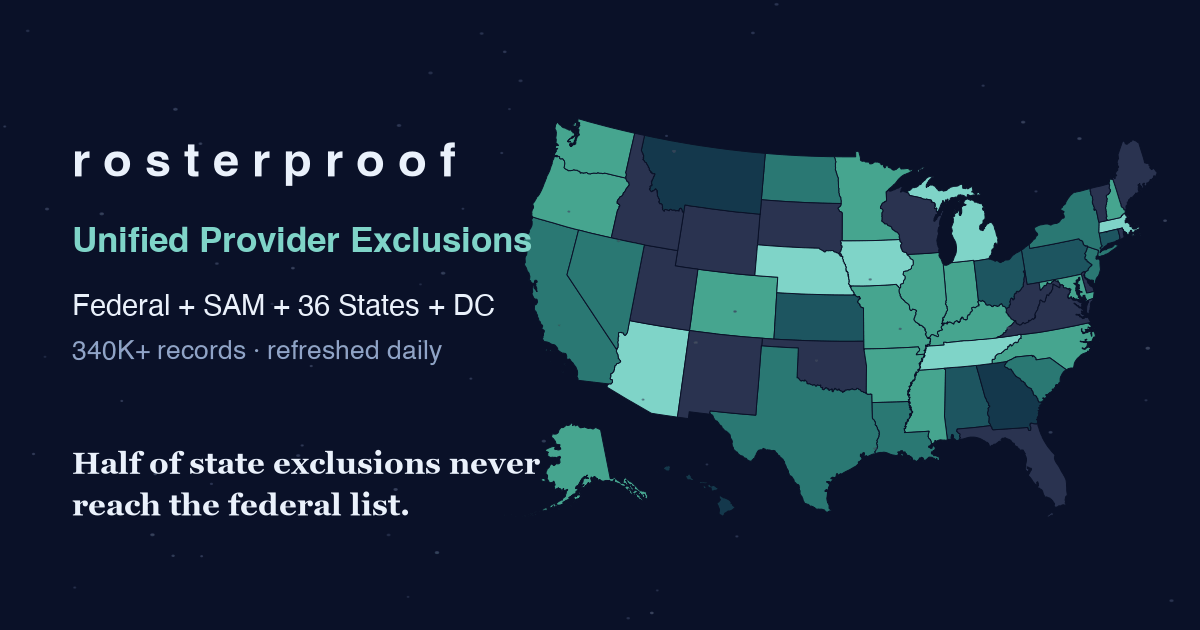
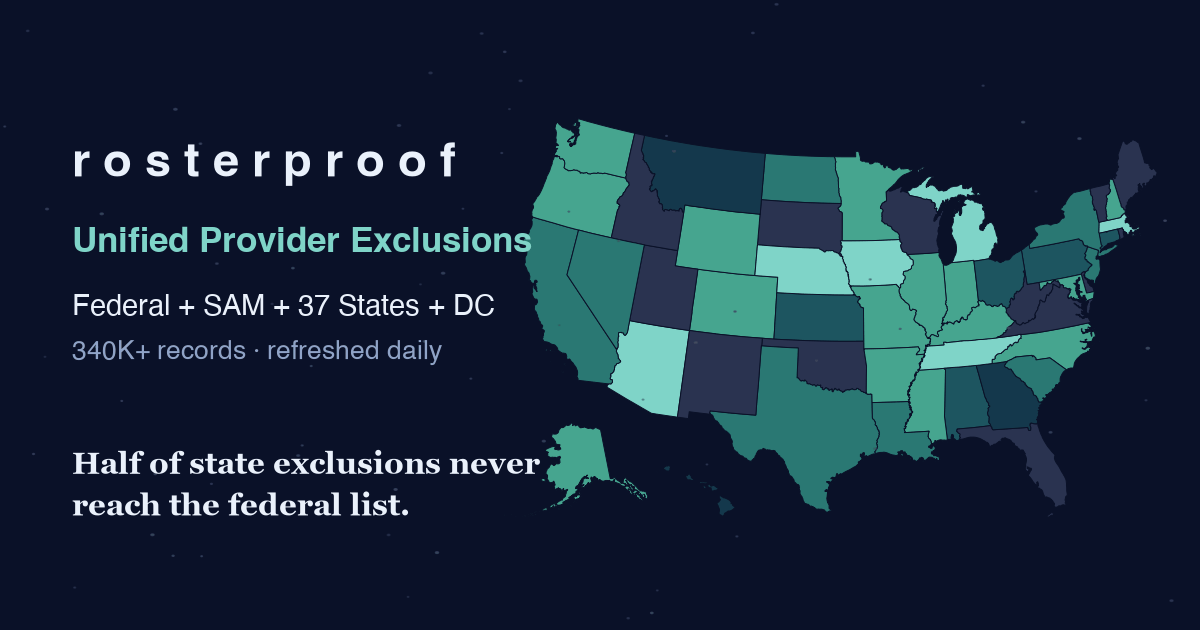
Stats: 340,323 / Federal + 37 states + DC / 55,646 verified (WYOMING added); og regenerated with WY+MI colored
Claude-Session: https://claude.ai/code/session_01PXfHoMXCHd5UrzFLypzow7

Changed region(s): [[0.555, 0.3317, 0.6475, 0.4524], [0.2467, 0.4524, 0.2775, 0.5127]]

diff --git a/index.html b/index.html
@@ -144,7 +144,7 @@ no PDFs to retype, no blind spots between the federal list and the states.</p>
 
 <div class="stats">
 <div class="stat"><div class="big" id="st-records">340K+</div><div class="small">exclusion records, history-tracked</div></div>
-<div class="stat"><div class="big" id="st-states">Federal + 36 states + DC</div><div class="small">OIG LEIE + SAM.gov plus state Medicaid exclusion lists</div></div>
+<div class="stat"><div class="big" id="st-states">Federal + 37 states + DC</div><div class="small">OIG LEIE + SAM.gov plus state Medicaid exclusion lists</div></div>
 <div class="stat"><div class="big" id="st-gap">~55%</div><div class="small">of state exclusions never reach the federal LEIE — <a href="/federal-gap.html" style="color:#7fd4c8">see the full analysis</a></div></div>
 <div class="stat"><div class="big" id="st-npi">55K+</div><div class="small">NPPES-verified NPI matches — screen claims by NPI, not name-matching</div></div>
 <div class="stat"><div class="big" id="st-multi">7.3K+</div><div class="small">providers excluded in 2+ jurisdictions — under ACA §6501, one state's exclusion is every state's problem</div></div>
